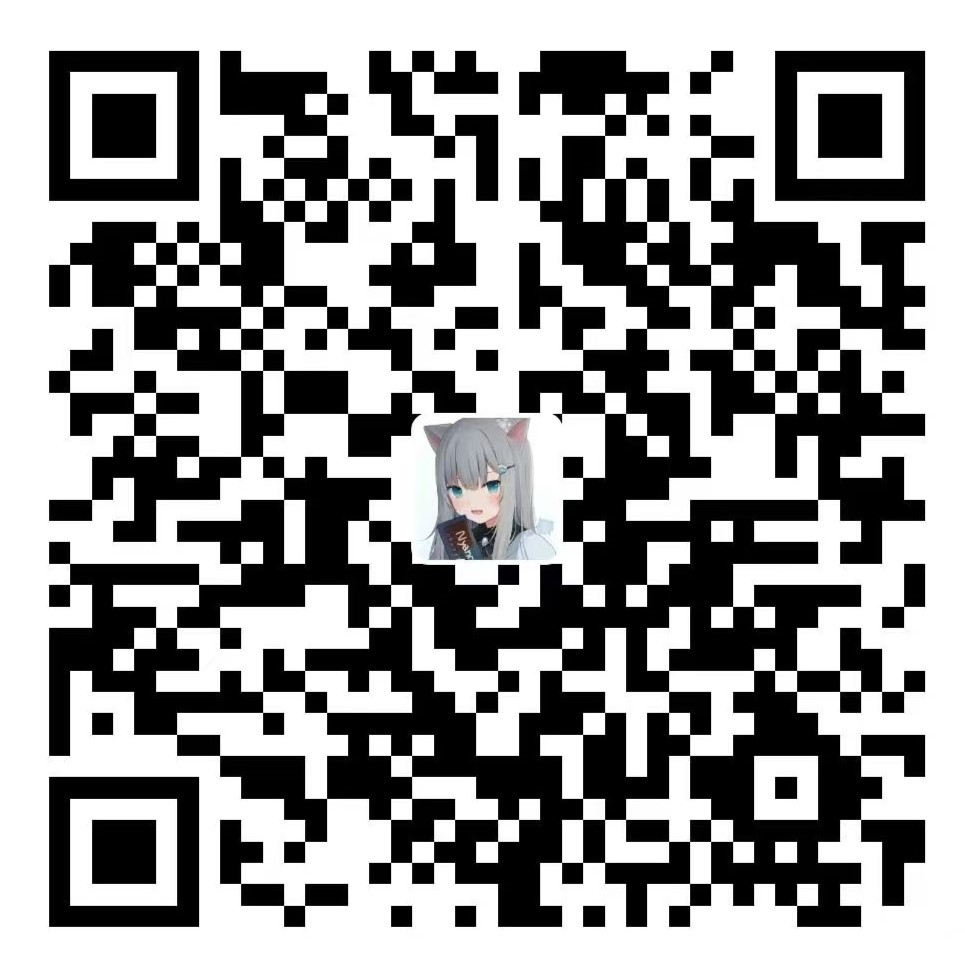
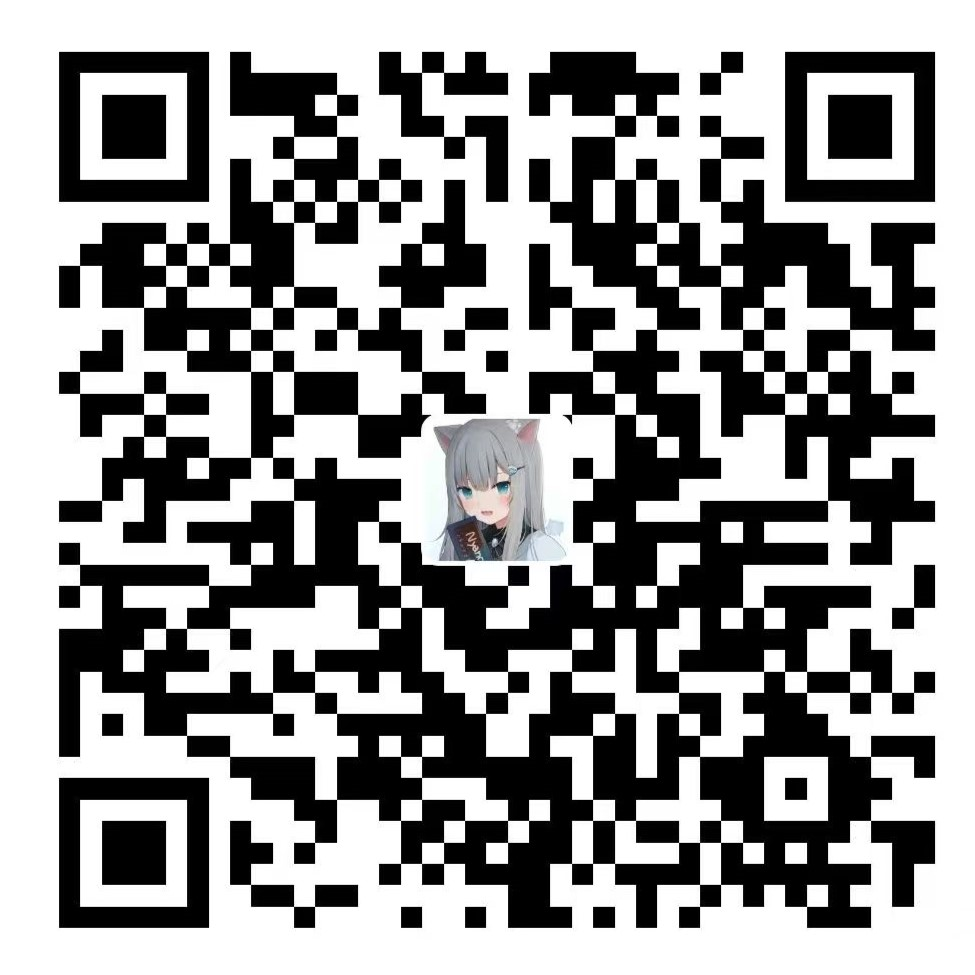
[README] 优化图片显示

diff --git a/README.md b/README.md
@@ -359,8 +359,8 @@ brew install ffmpeg
 </div>
 
 <div align="center" style="display: flex; justify-content: center; flex-wrap: nowrap; gap: 10px; max-width: 100%; overflow-x: auto;">
-  <img src="docs/images/wechat_qr.jpg" alt="微信支付" width="32%" style="max-width: 32%;">
-  <img src="docs/images/alipay_qr.jpg" alt="支付宝" width="32%" style="max-width: 32%;">
+  <img src="docs/images/wechat_qr.jpg" alt="微信支付" width="200px" height="200px" style="max-width: 200px;">
+  <img src="docs/images/alipay_qr.jpg" alt="支付宝" width="200px" height="200px" style="max-width: 200px;">
 </div>
 <p align="center"><b>微信 | 支付宝</b></p>
 
